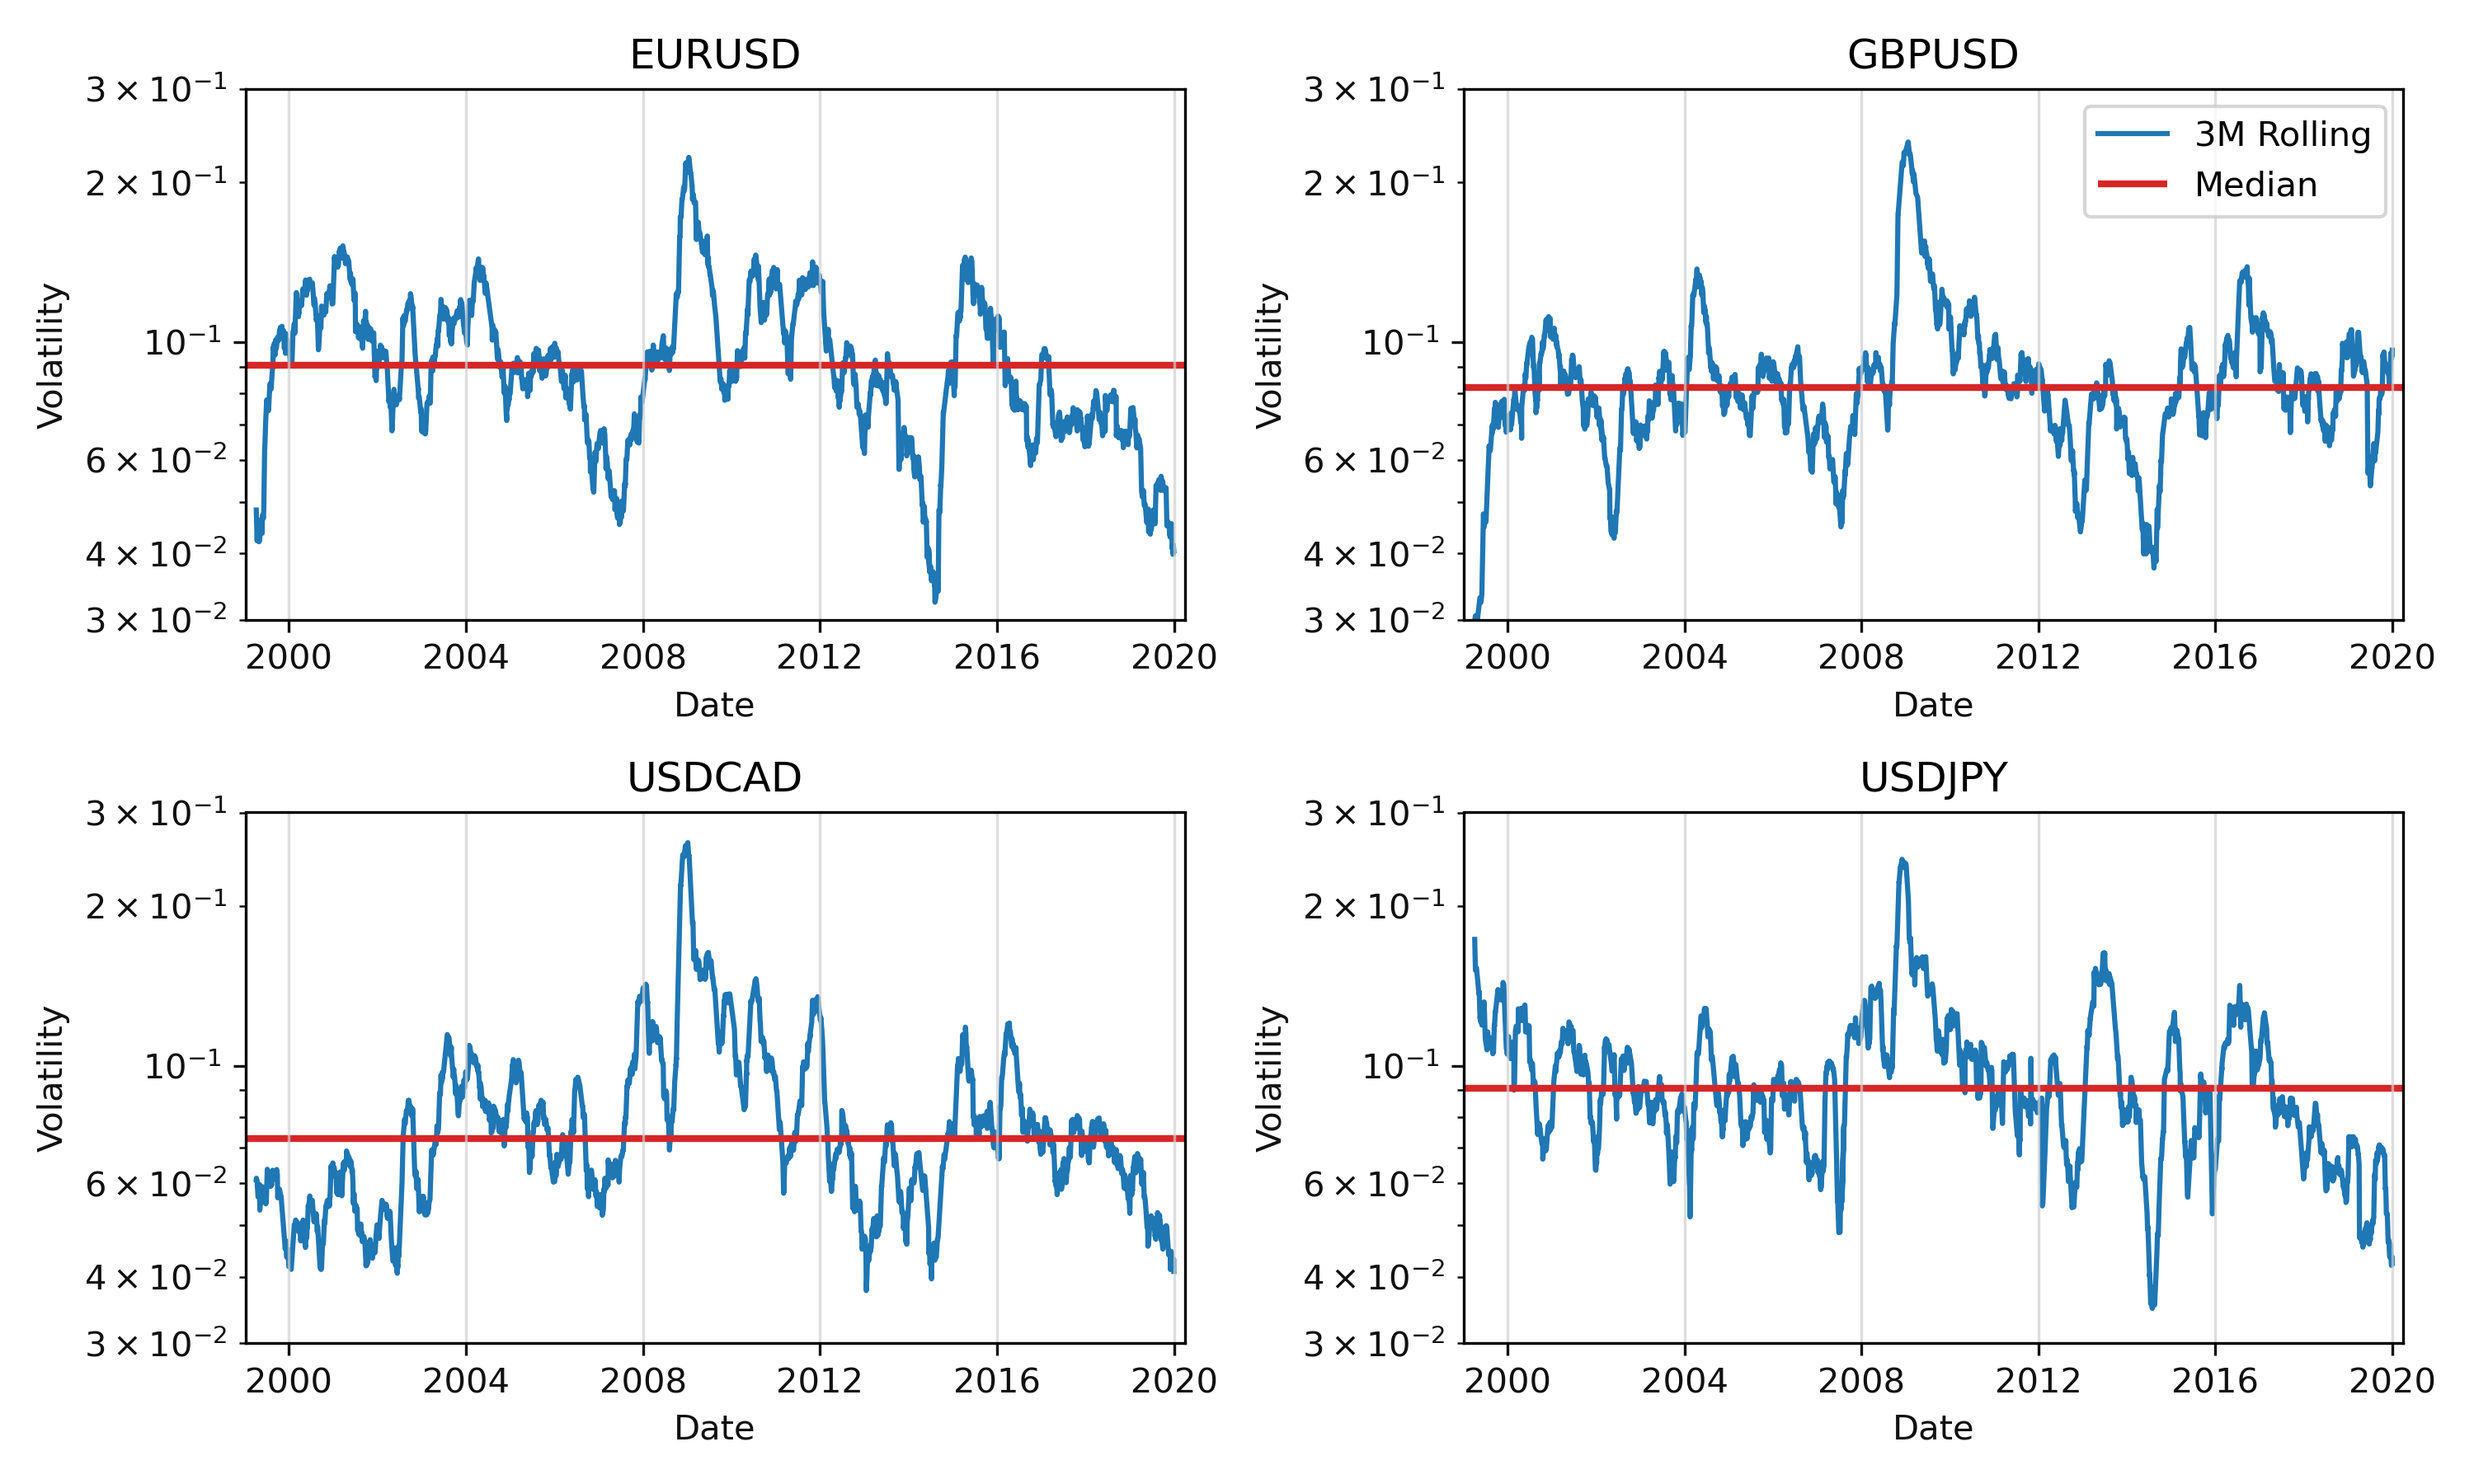
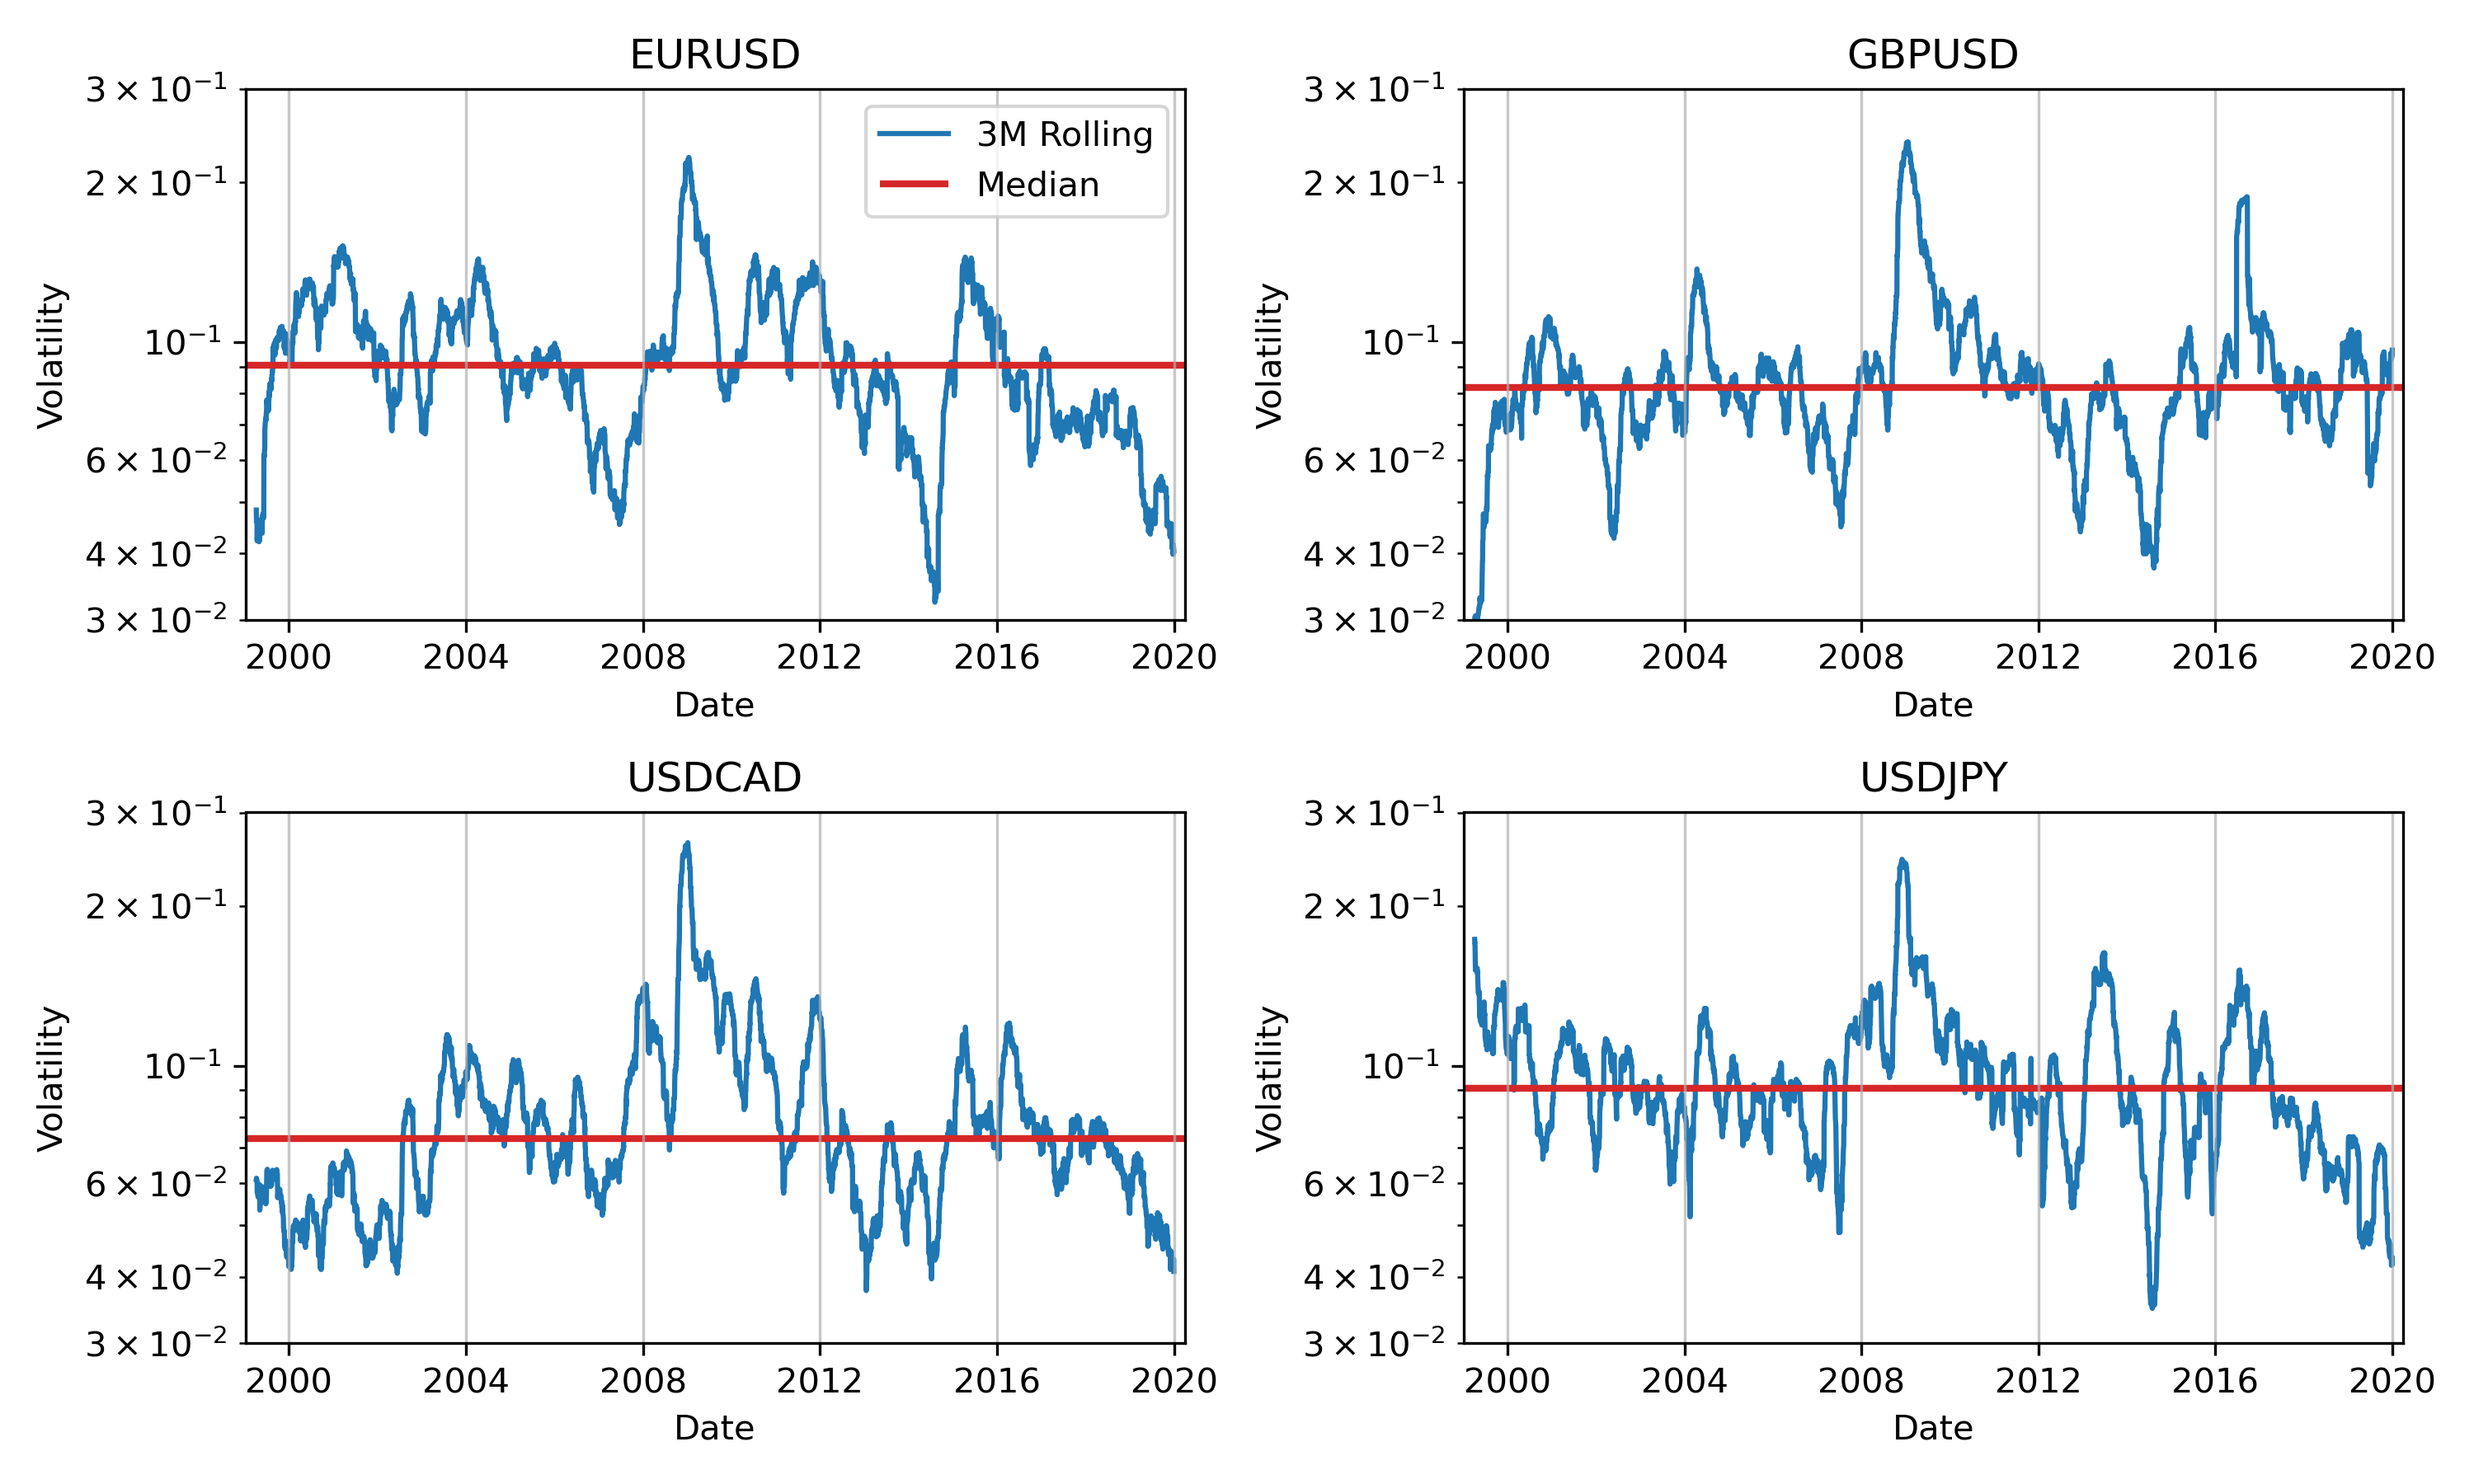
Updated rolling volatility plot

diff --git a/src/qbm/plotting/metrics.py b/src/qbm/plotting/metrics.py
@@ -304,7 +304,7 @@ def plot_volatility_grid(volatility, params):
         plot_volatility(
             ax, volatility.index, volatility[column], column.split("_")[0], params
         )
-    axs[0, 1].legend()
+    axs[0, 0].legend()
     plt.tight_layout()
 
     return fig, axs
